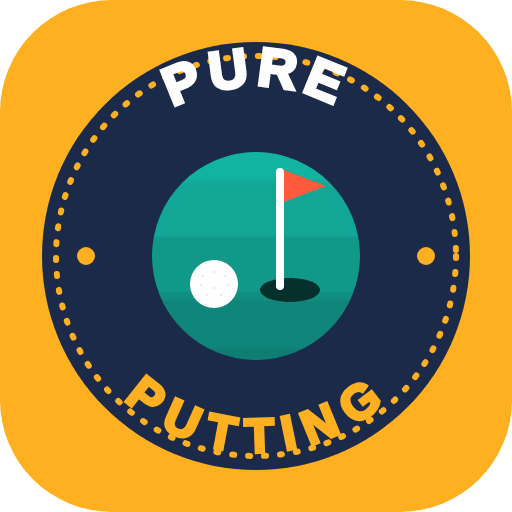
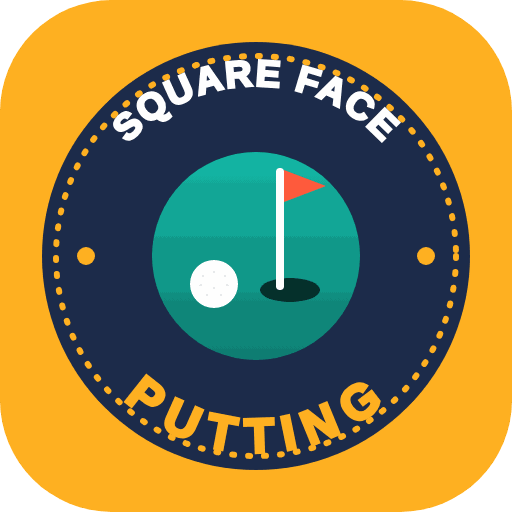
Add files via upload

Changed region(s): [[0.2188, 0.0938, 0.7812, 0.2812]]

diff --git a/index.html b/index.html
@@ -7,11 +7,11 @@
 <meta name="apple-mobile-web-app-capable" content="yes">
 <meta name="mobile-web-app-capable" content="yes">
 <meta name="apple-mobile-web-app-status-bar-style" content="default">
-<meta name="apple-mobile-web-app-title" content="Pure Putting">
+<meta name="apple-mobile-web-app-title" content="Square Face">
 <link rel="manifest" href="manifest.webmanifest">
 <link rel="icon" href="icon-192.png">
 <link rel="apple-touch-icon" href="apple-touch-icon.png">
-<title>Pure Putting</title>
+<title>Square Face Putting</title>
 <link rel="preconnect" href="https://fonts.googleapis.com">
 <link rel="stylesheet" href="https://fonts.googleapis.com/css2?family=Barlow+Condensed:wght@500;600;700&family=Figtree:wght@400;500;600;700&display=swap">
 <style>
@@ -37,7 +37,7 @@ button{cursor:pointer}
 :focus-visible{outline:3px solid var(--flag);outline-offset:2px}
 .app{max-width:620px;margin:0 auto;padding-inline:16px;padding-block:12px 110px}
 .top{display:flex;align-items:center;justify-content:space-between;gap:12px;margin-bottom:10px}
-.brand{white-space:nowrap;font-family:var(--display);font-weight:700;font-size:clamp(20px,6.4vw,28px);letter-spacing:.02em;text-transform:uppercase;line-height:1}
+.brand{white-space:nowrap;font-family:var(--display);font-weight:700;font-size:clamp(14px,4.4vw,26px);letter-spacing:.02em;text-transform:uppercase;line-height:1}
 .brand span{color:var(--green)}
 h2{font-family:var(--display);font-weight:600;font-size:24px;text-transform:uppercase;letter-spacing:.03em;margin:20px 0 10px;text-wrap:balance}
 h3{font-size:15px;margin:0 0 4px}
@@ -64,7 +64,7 @@ input[type=range]{width:100%;accent-color:var(--green)}
 .stepper button{width:44px;height:44px;border-radius:50%;border:1px solid var(--line);background:var(--surface);font-size:22px;font-weight:700;flex:none}
 .stepper b{font-family:var(--display);font-size:28px;min-width:90px;text-align:center;font-variant-numeric:tabular-nums}
 /* live screen */
-.status{display:inline-flex;align-items:center;gap:8px;border-radius:999px;padding:6px 12px;font-weight:700;font-size:14px;background:var(--surface);border:1px solid var(--line)}
+.status{display:inline-flex;align-items:center;gap:6px;border-radius:999px;padding:5px 10px;font-weight:700;font-size:13px;white-space:nowrap;flex-shrink:0;background:var(--surface);border:1px solid var(--line)}
 .status i{width:10px;height:10px;border-radius:50%;background:var(--muted)}
 .status.ready i{background:var(--good)} .status.ready{border-color:var(--good)}
 .status.busy i{background:var(--flag)}
@@ -117,7 +117,7 @@ svg text{fill:var(--muted);font-family:var(--body)}
 </head>
 <body>
 <div class="app">
-  <div class="top"><div class="brand">Pure <span>Putting</span></div><span class="status" id="status" hidden><i></i><span id="statustxt">Caméra arrêtée</span></span></div>
+  <div class="top"><div class="brand">Square Face <span>Putting</span></div><span class="status" id="status" hidden><i></i><span id="statustxt">Caméra arrêtée</span></span></div>
   <main id="view"></main>
 </div>
 <nav class="tabs" id="tabs"><div class="in">
@@ -214,7 +214,7 @@ async function camStart(){
     try{ if(navigator.wakeLock) LM.wake=await navigator.wakeLock.request("screen"); }catch(e){}
     loop();
   }catch(e){
-    LM.err = location.protocol!=="https:"&&location.hostname!=="localhost" ? "La caméra demande une adresse https." : "Caméra refusée ou indisponible. Autorise la caméra pour Pure Putting dans les réglages du téléphone.";
+    LM.err = location.protocol!=="https:"&&location.hostname!=="localhost" ? "La caméra demande une adresse https." : "Caméra refusée ou indisponible. Autorise la caméra pour Square Face Putting dans les réglages du téléphone.";
     setStatus("err","Caméra indisponible"); toast(LM.err);
   }
 }
@@ -728,7 +728,7 @@ function groundTex(Wd,Hd,dpr,o){
     c2.fill(); }
   GTEX={key,cv}; return cv;
 }
-/* "PURE PUTTING" advertising boards standing in the rough around the green. */
+/* "SQUARE FACE PUTTING" advertising boards standing in the rough around the green. */
 function drawBoards(b,dpr,P,o){
   const {eye,st,fw,rt,L,GM,GRa,GRc,dark}=o, wp=(a,c)=>({x:st.x+fw.x*a+rt.x*c, y:st.y+fw.y*a+rt.y*c});
   const PW=2.4, Z0=0.10, Z1=0.80, panels=[];
@@ -754,9 +754,9 @@ function drawBoards(b,dpr,P,o){
     b.fillStyle=alt?"#2E8B57":"#1B6B3F"; b.fillRect(0,UH-14,UW,14);
     b.fillStyle="rgba(255,255,255,.18)"; b.fillRect(0,0,UW,6);
     b.font="800 64px system-ui,-apple-system,'Segoe UI',Roboto,sans-serif"; b.textBaseline="middle";
-    const w1=b.measureText("PURE ").width, w2=b.measureText("PUTTING").width, sc=Math.min(1,(UW-40)/(w1+w2)), x0=(UW-(w1+w2)*sc)/2;
+    const w1=b.measureText("SQUARE FACE ").width, w2=b.measureText("PUTTING").width, sc=Math.min(1,(UW-40)/(w1+w2)), x0=(UW-(w1+w2)*sc)/2;
     b.save(); b.translate(x0,(UH-14)/2+2); b.scale(sc,1);
-    b.fillStyle=alt?"#FFFFFF":"#0F2A1A"; b.fillText("PURE ",0,0);
+    b.fillStyle=alt?"#FFFFFF":"#0F2A1A"; b.fillText("SQUARE FACE ",0,0);
     b.fillStyle=alt?"#7FD49A":"#1F8A4C"; b.fillText("PUTTING",w1,0); b.restore();
     const d=dist(pn), hz=1-Math.exp(-d/45);
     b.fillStyle="rgba(188,206,200,"+(hz*0.9).toFixed(3)+")"; b.fillRect(0,0,UW,UH);
@@ -1006,7 +1006,7 @@ function viewPracticeSetup(){
   <h2>Avant de jouer</h2>${setupTip()}`;
 }
 function firstPlayer(){
-  return `<div class="card stack" style="margin-top:6px"><h3>Bienvenue dans Pure Putting</h3><p class="muted">Ajoute ton prénom pour commencer. Tout reste sur ce téléphone.</p>
+  return `<div class="card stack" style="margin-top:6px"><h3>Bienvenue dans Square Face Putting</h3><p class="muted">Ajoute ton prénom pour commencer. Tout reste sur ce téléphone.</p>
   <div class="row"><input type="text" id="firstname" class="grow" value="Benito" aria-label="Prénom"><button class="btn primary" data-act="addfirst">C'est parti</button></div></div>`;
 }
 function stat(arr){ if(!arr.length) return {m:null,sd:null}; const m=arr.reduce((a,b)=>a+b,0)/arr.length; const sd=Math.sqrt(arr.reduce((a,b)=>a+(b-m)**2,0)/arr.length); return {m,sd}; }
@@ -1151,7 +1151,7 @@ function onAct(e){
 document.querySelectorAll("#tabs button").forEach(b=>b.addEventListener("click",()=>{ S.tab=b.dataset.tab; S.last=null; render(); window.scrollTo(0,0); }));
 function exportData(){
   const blob=new Blob([JSON.stringify({app:"puttlab-lm",v:1,date:Date.now(),players:S.players,rounds:S.rounds,shots:S.shots,settings:S.settings})],{type:"application/json"});
-  const a=document.createElement("a"); a.href=URL.createObjectURL(blob); a.download="pure-putting-sauvegarde-"+new Date().toISOString().slice(0,10)+".json";
+  const a=document.createElement("a"); a.href=URL.createObjectURL(blob); a.download="square-face-putting-sauvegarde-"+new Date().toISOString().slice(0,10)+".json";
   document.body.appendChild(a); a.click(); setTimeout(()=>{ URL.revokeObjectURL(a.href); a.remove(); },1000);
 }
 async function importData(file){
@@ -1160,7 +1160,7 @@ async function importData(file){
     const rs=new Set(S.rounds.map(r=>r.id)); (j.rounds||[]).forEach(r=>{ if(!rs.has(r.id)) S.rounds.push(r); });
     const ts=new Set(S.shots.map(s=>s.t)); (j.shots||[]).forEach(s=>{ if(!ts.has(s.t)) S.shots.push(s); });
     S.shots.sort((a,b)=>a.t-b.t); save(); render(); toast("Sauvegarde importée");
-  }catch(e){ toast("Ce fichier n'est pas une sauvegarde Pure Putting."); }
+  }catch(e){ toast("Ce fichier n'est pas une sauvegarde Square Face Putting."); }
 }
 window.addEventListener("resize",()=>{ if($("#green")) drawGreen(); });
 document.addEventListener("visibilitychange",()=>{ if(document.hidden) camStop(); else if($("#green")) camStart(); });

diff --git a/sw.js b/sw.js
@@ -1,4 +1,4 @@
-const CACHE = "puttlab-v10";
+const CACHE = "puttlab-v11";
 const CORE = ["./", "./index.html", "./manifest.webmanifest", "./icon-192.png", "./icon-512.png", "./apple-touch-icon.png", "./cup.mp3", "./applause.mp3", "./oh.mp3"];
 self.addEventListener("install", e => { e.waitUntil(caches.open(CACHE).then(c => c.addAll(CORE)).then(() => self.skipWaiting())); });
 self.addEventListener("activate", e => { e.waitUntil(caches.keys().then(ks => Promise.all(ks.filter(k => k !== CACHE).map(k => caches.delete(k)))).then(() => self.clients.claim())); });
